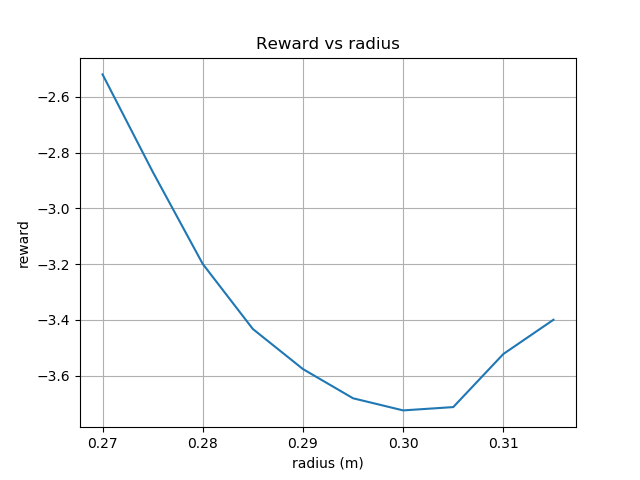
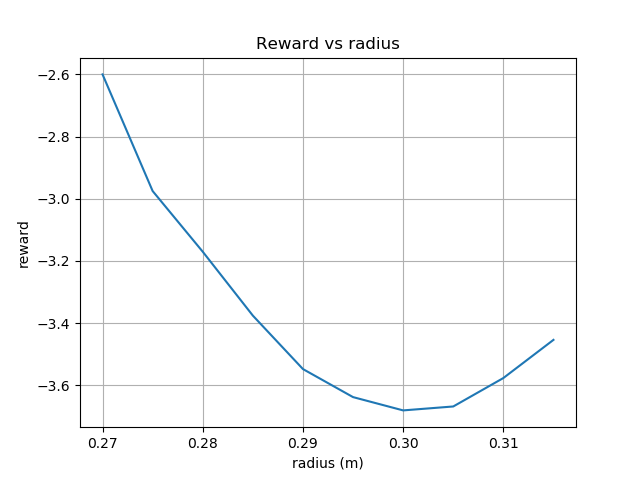
Pruevas de la trayectoria con waypoints en BayesOpt y Scipy.

diff --git a/param_function.py b/param_function.py
@@ -27,6 +27,12 @@ class Target(object):  # Estructura del objetivo
         self.pos = []
 
 
+class Waypoints(object):
+    def __init__(self):
+        self.initial_pos = Dummy('target0')
+        self.final_pos = Dummy('target1')
+
+
 class Obstacle(object):  # Estructura del obstaculo
     def __init__(self):
         self.obstacle = Shape('obstacle')
@@ -52,8 +58,9 @@ class ParamFunction(object):
         self.obstacle = Obstacle()
         self.target = Target()
         self.param = Parameters()
+        self.waypoints = Waypoints()
 
-    def avoidance_trial(self, radius):
+    def avoidance_tray_circular(self, radius):
         self.pyrep.start()  # We start the simulation
 
         self.target.pos = self.target.initial_pos  # We set the pos as the initial pos
@@ -96,8 +103,7 @@ class ParamFunction(object):
                 done = path.step()
                 self.pyrep.step()
 
-                distance_3d = np.array(self.obstacle.pos - self.target.pos)
-                distance = np.linalg.norm(distance_3d)
+                distance = calc_distance(self.obstacle.pos, self.target.pos)
 
         self.param.time = 0  # Inicializamos el tiempo
 
@@ -135,7 +141,7 @@ class ParamFunction(object):
         self.param.radius = radius_interval[0]
 
         while self.param.radius <= radius_interval[1]:
-            reward = self.avoidance_trial(self.param.radius)
+            reward = self.avoidance_tray_circular(self.param.radius)
             list_of_radius = np.append(list_of_radius, self.param.radius)
             list_of_rewards = np.append(list_of_rewards, reward)
             self.param.radius += radius_step
@@ -148,6 +154,63 @@ class ParamFunction(object):
         plt.show()
         print('Done ...')
 
+    def tray_with_waypoints(self, wp_params: np.array):
+        # Definicion de los waypoints
+        pos1_rel = np.array([wp_params[0], wp_params[1], wp_params[2]])
+        pos1_abs = pos1_rel + self.obstacle.pos
+        waypoint1 = Dummy.create()
+        waypoint1.set_position(pos1_abs)
+
+        pos2_rel = np.array([wp_params[3], wp_params[4], wp_params[5]])
+        pos2_abs = pos2_rel + self.obstacle.pos
+        waypoint2 = Dummy.create()
+        waypoint2.set_position(pos2_abs)
+
+        # Calcular distancia de los waypoints al obstaculo
+        distance_w1 = calc_distance(self.obstacle.pos, waypoint1.get_position())
+        distance_w2 = calc_distance(self.obstacle.pos, waypoint2.get_position())
+
+        # Si la distancia de los waypoints al obstaculo es menor que una distancia de segurdidad no ejecutamos
+        # la trayectoria
+        if distance_w1 < 0.3 or distance_w2 < 0.3:
+            reward = -1000
+            print(reward)
+            return -reward
+
+        # Definición de la trayectoria
+        tray = [self.waypoints.initial_pos, waypoint1, waypoint2, self.waypoints.final_pos]
+
+        # Ejecución de la trayectoria
+        self.pyrep.start()
+
+        self.param.time = 0
+        for pos in tray:
+            try:
+                path = self.robot.arm.get_path(position=pos.get_position(),
+                                               euler=[0, math.radians(180), 0])
+                # Step the simulation and advance the agent along the path
+                done = False
+                while not done:
+                    done = path.step()
+                    self.pyrep.step()
+                    self.param.time += self.pyrep.get_simulation_timestep()
+            except ConfigurationPathError as e:
+                reward = -1000
+                print(reward)
+                return -reward
+
+        reward = (-(5 * (1 - self.obstacle.radius / distance_w1)) ** 2
+                  - (5 * (1 - self.obstacle.radius / distance_w2)) ** 2 + 2) + 10 / self.param.time
+        self.pyrep.stop()
+        print(reward)
+        return -reward
+
     def shutdown(self):
         input('Press enter to finish ...')
         self.pyrep.shutdown()  # Close the application
+
+
+def calc_distance(vector1: np.array, vector2: np.array):
+    distance_3d = np.array(vector1 - vector2)
+    distance = np.linalg.norm(distance_3d)
+    return distance

diff --git a/tray_waypoints.py b/tray_waypoints.py
@@ -29,7 +29,7 @@ class MyObstacle(object):  # Define the structure of the obstacle
     def __init__(self):
         self.obstacle = Shape('obstacle')
         self.pos = self.obstacle.get_position()  # We get the position of the obstacle
-        self.radius = 0.3/2  # We get the radius of the obstacle
+        self.radius = 0.3  # We get the radius of the obstacle
 
 
 obstacle = MyObstacle()
@@ -37,12 +37,12 @@ obstacle = MyObstacle()
 initial_pos = Dummy('target0')
 final_pos = Dummy('target1')
 
-pos1_rel = np.array([0, -0.2, 0.3])  # Parametro de entrada: posición relativa al obstaculo
+pos1_rel = np.array([-0.13855742, -0.27029802,  0.01403834])  # Parametro de entrada: posición relativa al obstaculo
 pos1_abs = pos1_rel + obstacle.pos
 waypoint1 = Dummy.create()
 waypoint1.set_position(pos1_abs)
 
-pos2_rel = np.array([0, 0.2, 0.3])  # Parametro de entrada: posición relativa al obstaculo
+pos2_rel = np.array([-0.02478715, -0.25553736,  0.16360755])  # Parametro de entrada: posición relativa al obstaculo
 pos2_abs = pos2_rel + obstacle.pos
 waypoint2 = Dummy.create()
 waypoint2.set_position(pos2_abs)
@@ -82,5 +82,10 @@ for pos in tray:
 
 pr.stop()
 pr.shutdown()
-reward = 10 / time
+print(distance_w1)
+print(distance_w2)
+print(time)
+
+reward = (-(5 * (1 - obstacle.radius / distance_w1)) ** 2
+          - (5 * (1 - obstacle.radius / distance_w2)) ** 2 + 2) + 10 / time
 print(reward)

diff --git a/prueba_funcion.py b/prueba_funcion.py
@@ -1,8 +1,12 @@
+import numpy as np
 import param_function as pf
 
 function = pf.ParamFunction()  # Inicializacion
 
-radius = [0.27, 0.32]
-function.avoidance_brute_force(radius_interval=radius)  # Ejecucion
+#radius = [0.27, 0.32]
+#function.avoidance_brute_force(radius_interval=radius)  # Ejecucion
+
+wp_params = np.array([0.02682544,  0.02903595,  0.3408096,   0.11211002, -0.31589305, -0.09995094])
+function.tray_with_waypoints(wp_params)
 
 function.shutdown()  # Apagado

diff --git a/tray_waypoints_scipy.py b/tray_waypoints_scipy.py
@@ -1,0 +1,12 @@
+from scipy.optimize import differential_evolution
+
+import param_function as pf
+
+function = pf.ParamFunction()  # Inicializacion
+
+bounds = [(-0.4, 0.4), (-0.375, 0.375), (-0.1, 0.4), (-0.4, 0.4), (-0.375, 0.375), (-0.1, 0.4)]
+
+result = differential_evolution(function.tray_with_waypoints, bounds)
+print(result)
+
+function.shutdown()  # Apagado

diff --git a/prueba_scipy.py b/prueba_scipy.py
@@ -6,7 +6,7 @@ function = pf.ParamFunction()  # Inicializacion
 
 bounds = [(0.27, 0.32)]
 
-result = differential_evolution(function.avoidance_trial, bounds)
+result = differential_evolution(function.avoidance_tray_circular, bounds)
 print(result)
 
 function.shutdown()  # Apagado
